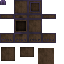
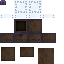
Changed the Warded Chest texture.

Changed region(s): [[0.0, 0.0, 0.875, 0.3125]]

diff --git a/MODSRC/vazkii/tinkerer/client/render/tile/RenderTileWardChest.java b/MODSRC/vazkii/tinkerer/client/render/tile/RenderTileWardChest.java
@@ -21,6 +21,7 @@ import net.minecraft.tileentity.TileEntity;
 import org.lwjgl.opengl.GL11;
 import org.lwjgl.opengl.GL12;
 
+import vazkii.tinkerer.client.model.ModelWardChest;
 import vazkii.tinkerer.lib.LibResources;
 
 public class RenderTileWardChest extends TileEntitySpecialRenderer {
@@ -28,7 +29,7 @@ public class RenderTileWardChest extends TileEntitySpecialRenderer {
 	ModelChest chestModel;
 
 	public RenderTileWardChest() {
-		chestModel = new ModelChest();
+		chestModel = new ModelWardChest();
 	}
 
 	@Override
@@ -36,7 +37,7 @@ public class RenderTileWardChest extends TileEntitySpecialRenderer {
 		bindTextureByName(LibResources.MODEL_WARD_CHEST);
         GL11.glPushMatrix();
         GL11.glEnable(GL12.GL_RESCALE_NORMAL);
-        //GL11.glEnable(GL11.GL_BLEND);
+        GL11.glEnable(GL11.GL_BLEND);
         GL11.glColor4f(1.0F, 1.0F, 1.0F, 1.0F);
         GL11.glTranslatef((float)x, (float)y + 1.0F, (float)z + 1.0F);
         GL11.glScalef(1.0F, -1.0F, -1.0F);
